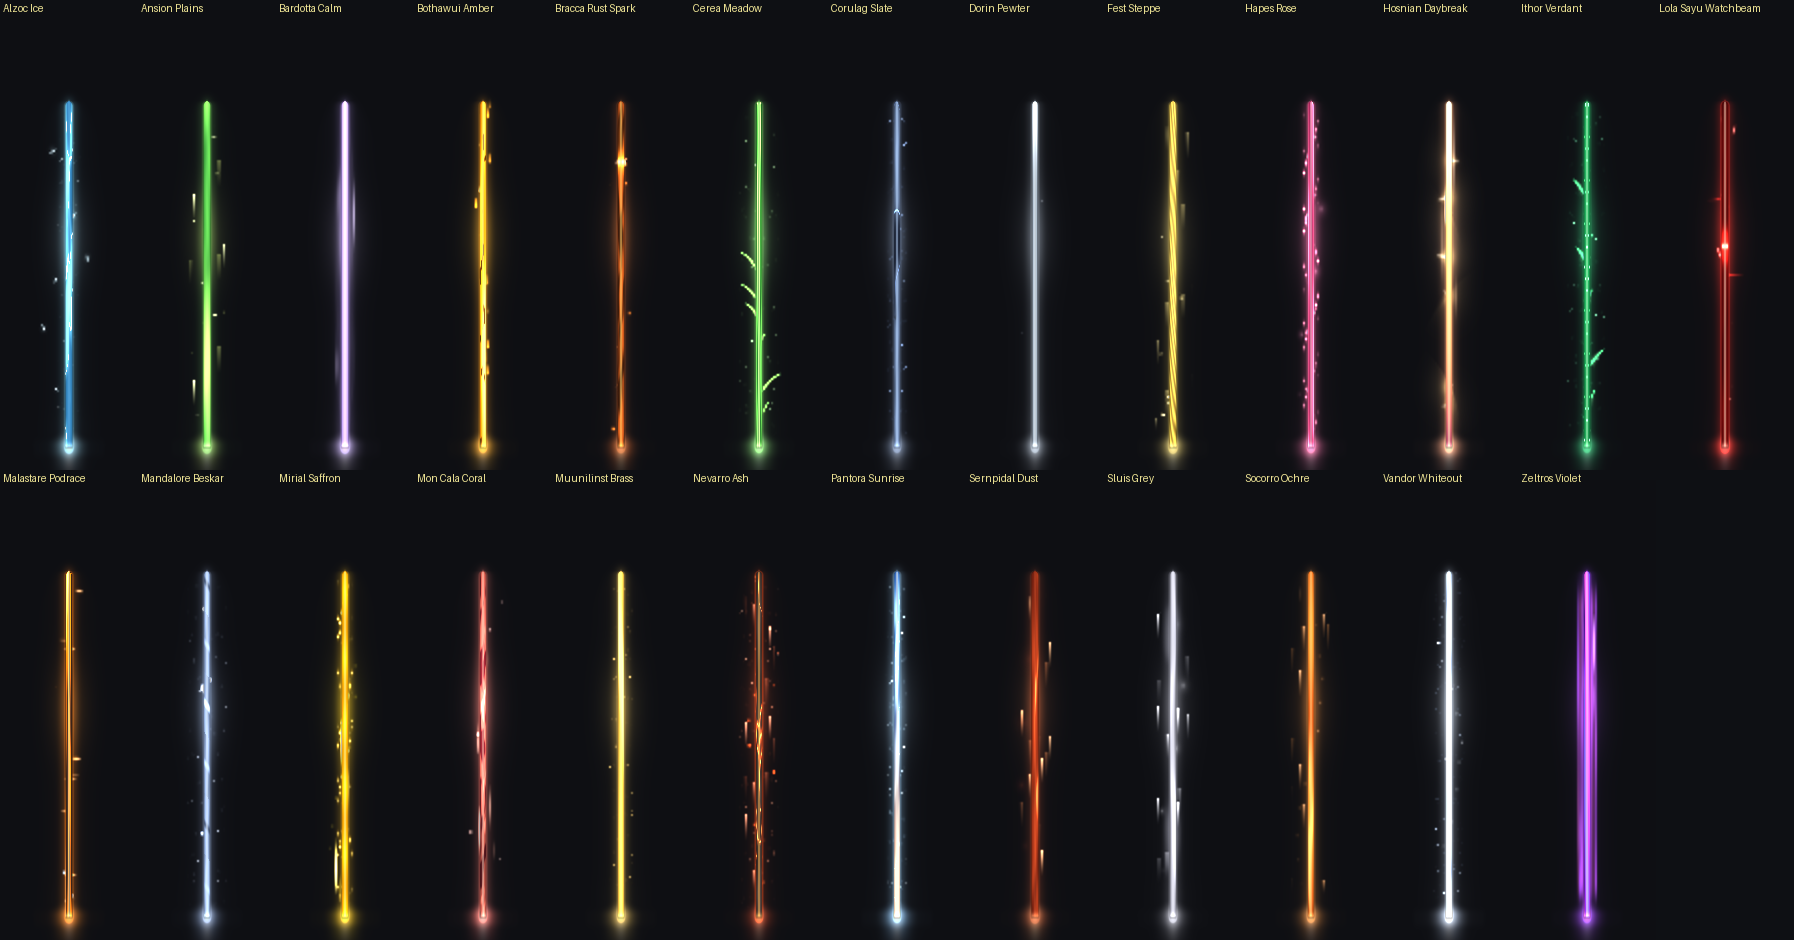
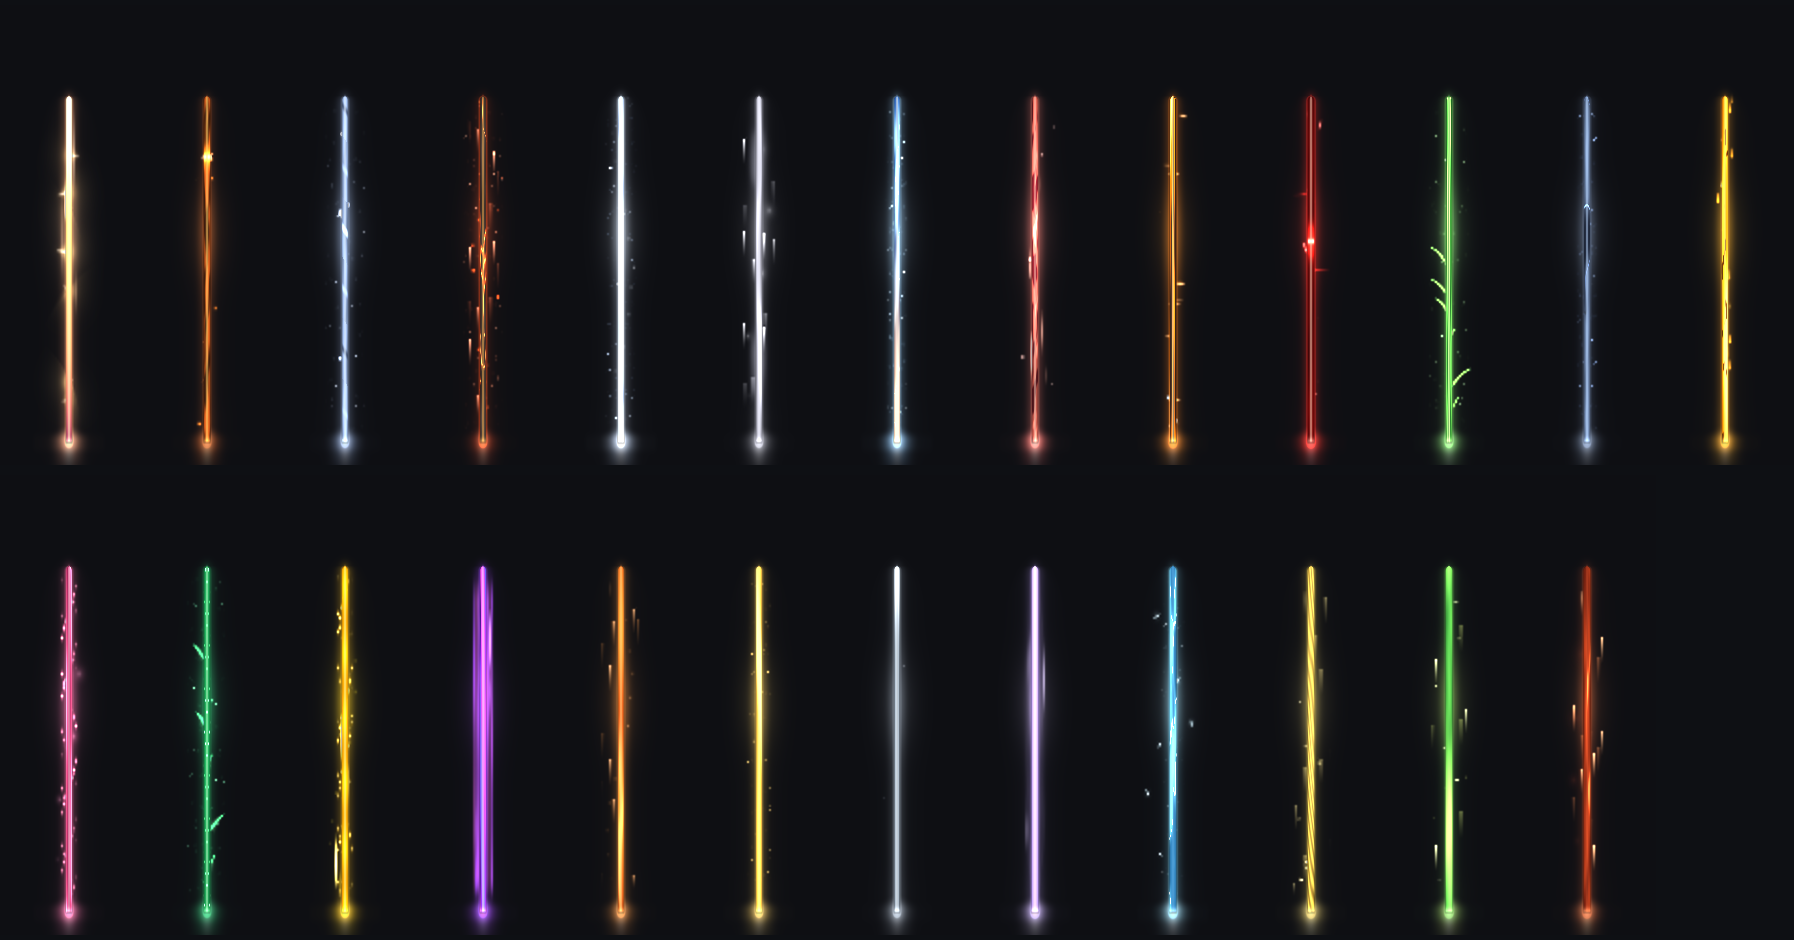
Screenshots without names
Claude-Session: https://claude.ai/code/session_01EXkU9q654ooL3gQGf53Z2K

diff --git a/README.md b/README.md
@@ -1,1 +1,1 @@
-Preview renders of the Star Wars blade round, for the pull request. Not part of the game.
+Preview renders of the new blades, for the pull request. Not part of the game.
